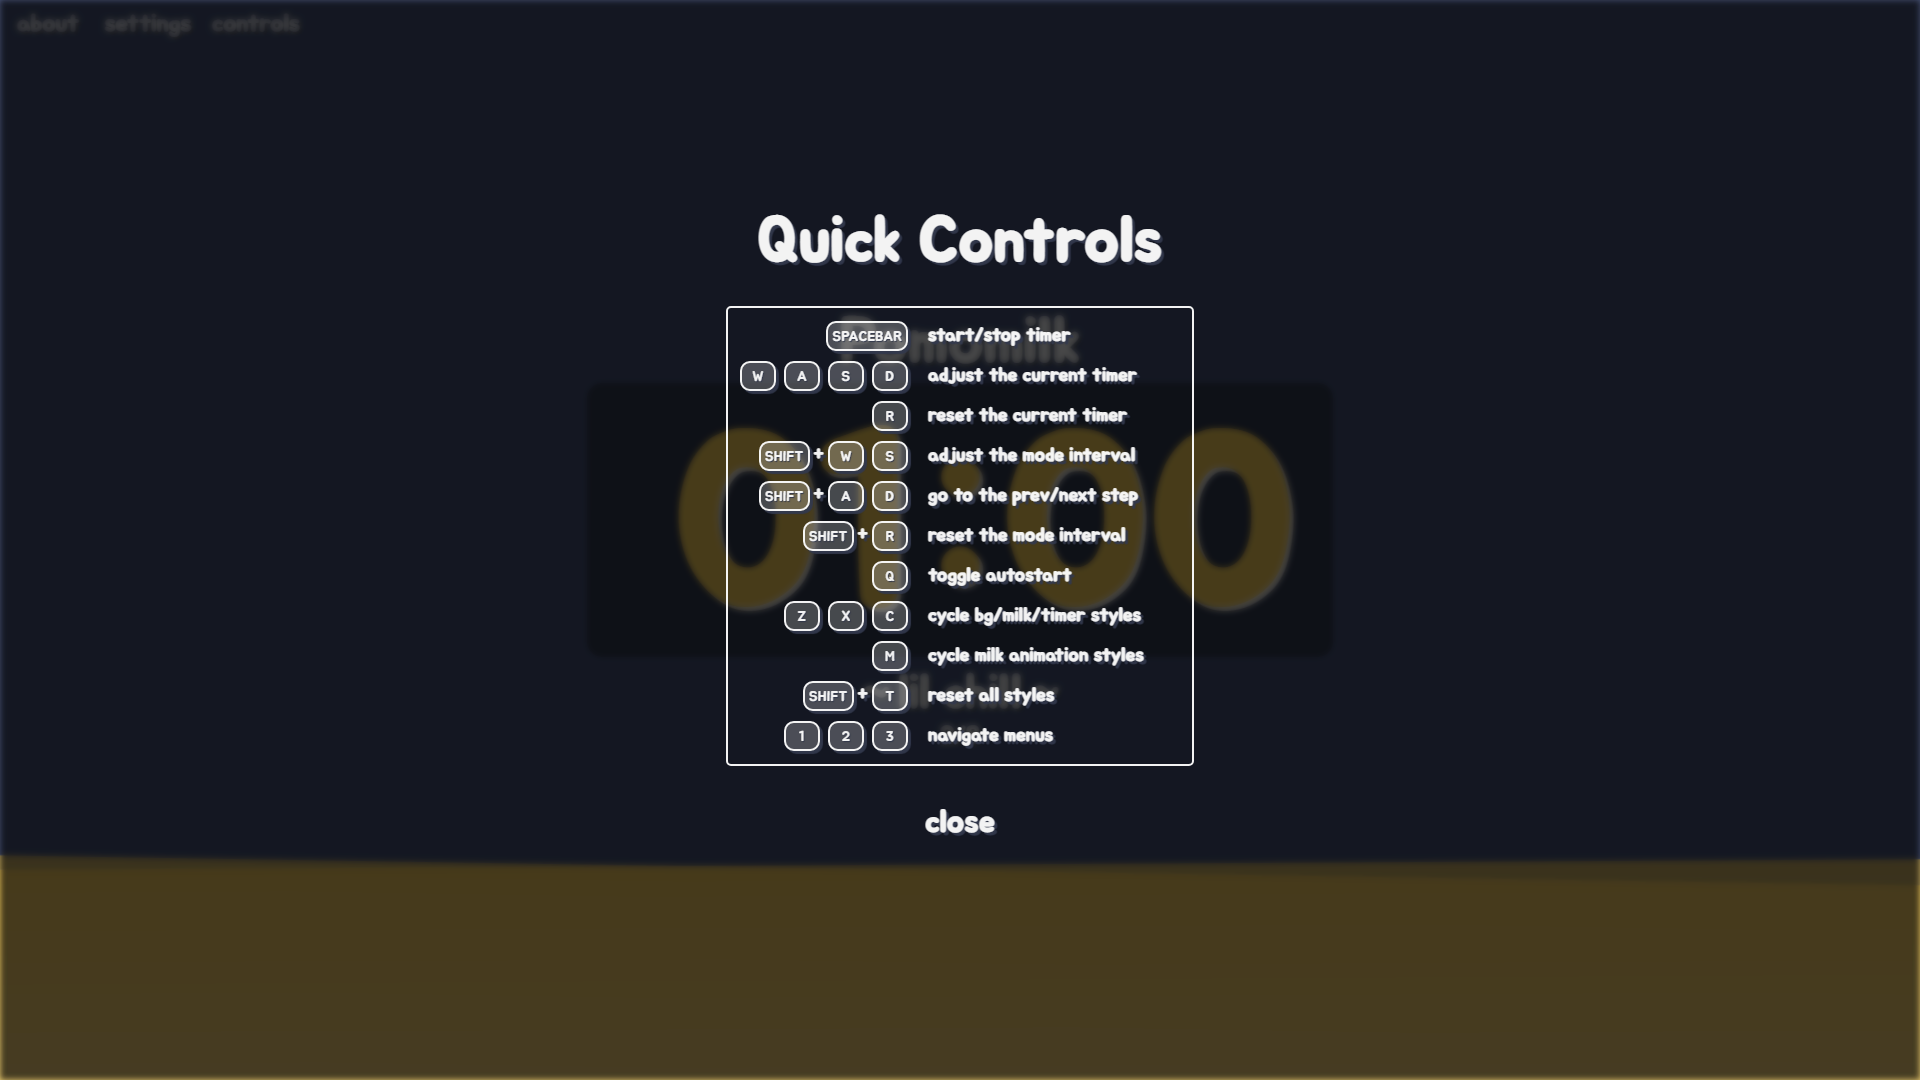
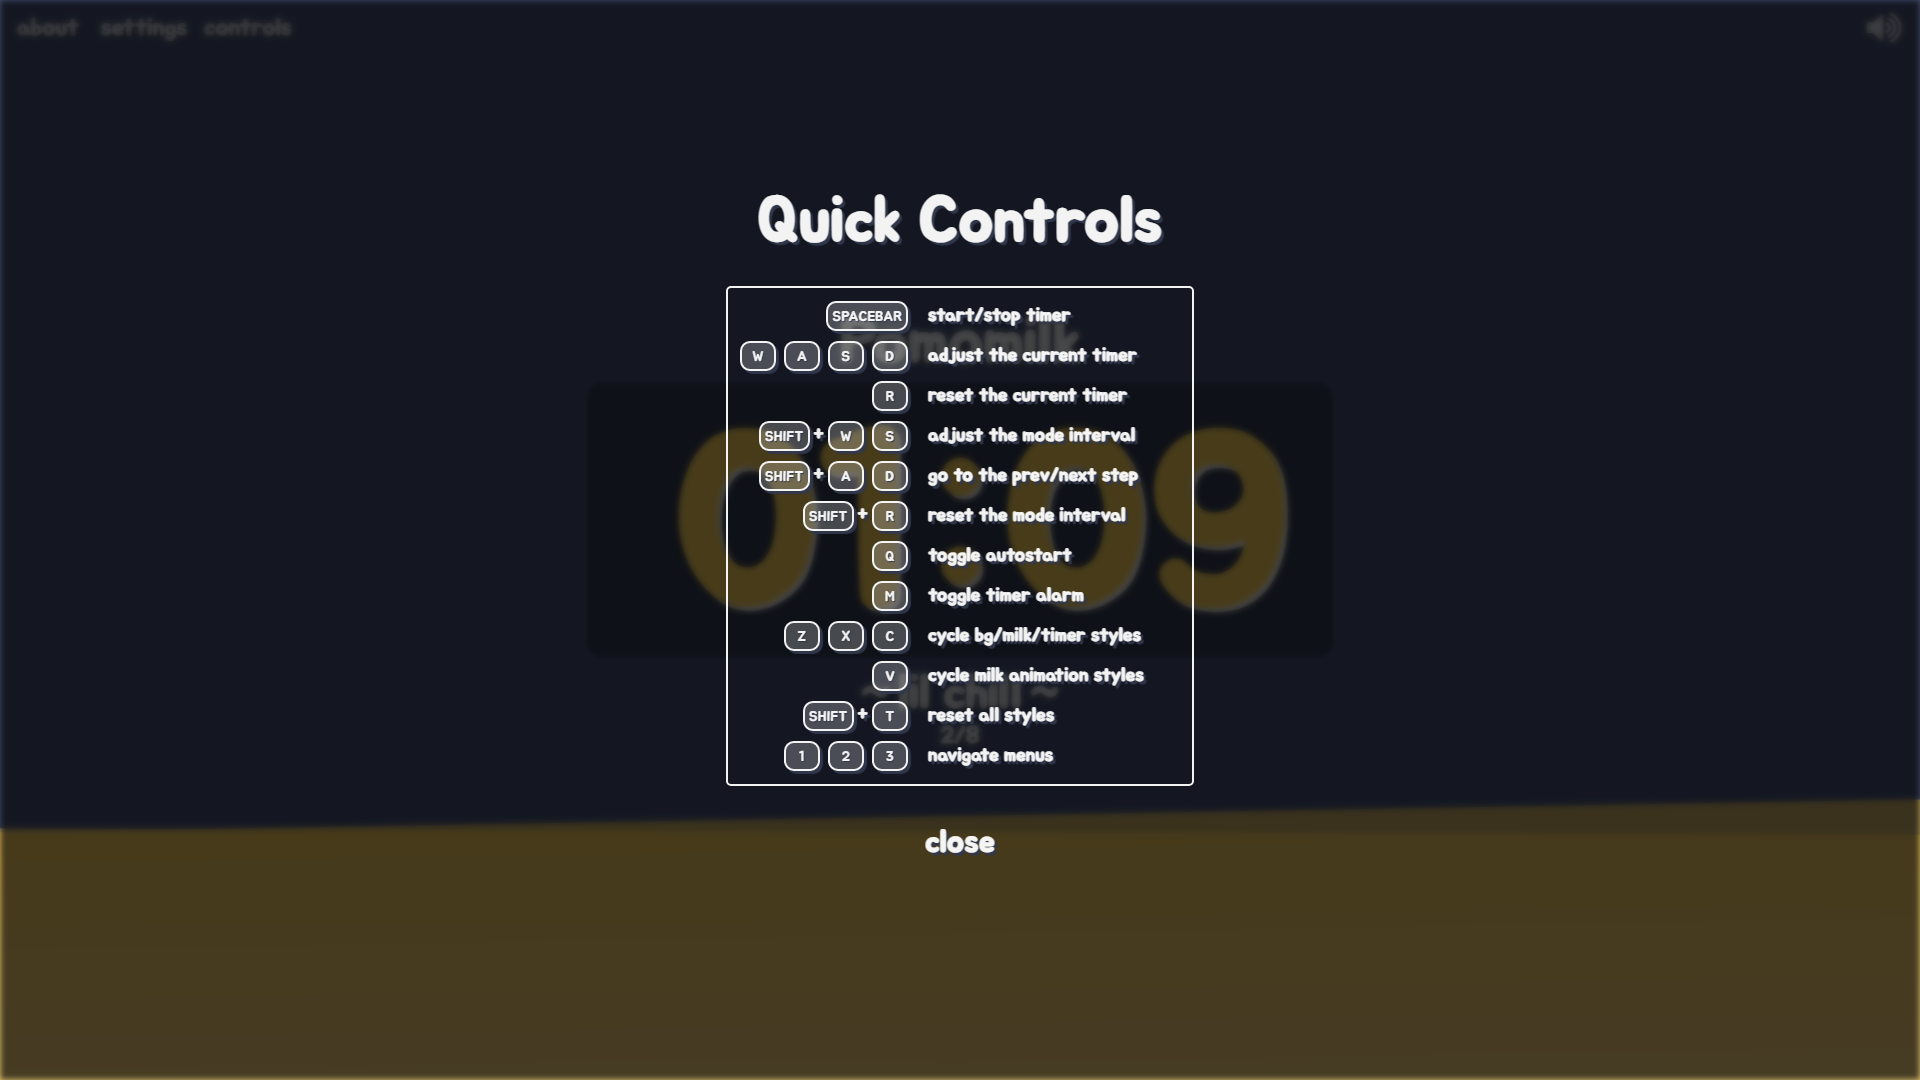
Update screenshots

Changed region(s): [[0.0, 0.275, 1.0, 0.825], [0.375, 0.1833, 0.625, 0.2444], [0.9688, 0.0, 1.0, 0.0306]]

diff --git a/src/App.scss b/src/App.scss
@@ -153,12 +153,13 @@
       }
 
       .sound-toggle {
-        font-size: 2rem;
+        font-size: 2.3rem;
         margin-right: 1rem;
         opacity: 0.7;
         color: $dark;
-        height: 2rem;
-        width: 2rem;
+        height: 2.5rem;
+        width: 2.5rem;
+        @include flex-center;
         &.active {
           opacity: 0.8;
           color: $white;
@@ -166,7 +167,6 @@
         &:hover {
           opacity: 1;
           cursor: pointer;
-          font-size: 2.1rem;
         }
       }
 

diff --git a/README.md b/README.md
@@ -31,10 +31,11 @@
 - Users can customize interval lengths.
 - Users can adjust the timer, skip, or reset the current step.
 - Users can toggle timer autostart.
+- Users can toggle timer alarm sound.
 - Time progression is visualized by milk that dynamically fills up the screen.
 - Users can customize the background/milk colors and timer style.
 - Users can set milk color to "auto" to have it change according to the current step.
-- Users can set milk animation to "on" , "flat", or "off".
+- Users can customize the milk animation style.
 
 <!-- INSTALLATION -->
 
